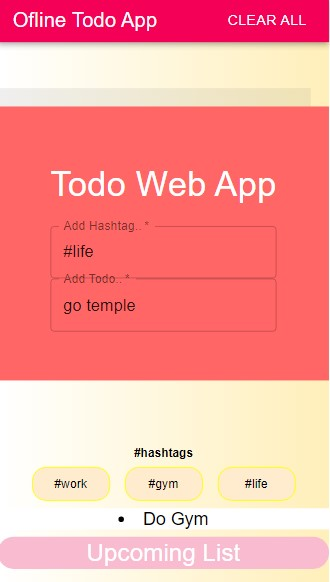
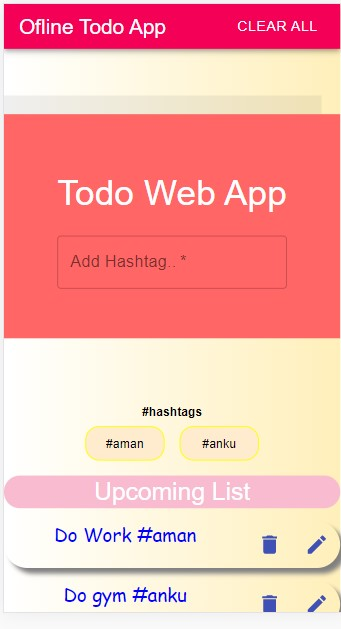
bug fixes

diff --git a/src/Context/AppContext.jsx b/src/Context/AppContext.jsx
@@ -6,10 +6,13 @@ class AppContextProvider extends React.Component {
   constructor(props) {
     super(props);
     var data1 = localStorage.getItem("todolist")
+    var fromHash = localStorage.getItem("hashtag")
+
     this.state = {
       todo: JSON.parse(data1) || [],
       hashtag: [],
-      set: []
+      set: [],
+      hashSet: JSON.parse(fromHash) || []
     };
   }
 
@@ -23,15 +26,29 @@ class AppContextProvider extends React.Component {
 
   // add todo list
   addTodo = (title, hashtag) => {
+
+    var hash = title.split(" ").filter((v) => v.startsWith("#"))
     let item = {
       title,
       id: uuid(),
       status: false,
-      hashtag: hashtag
+      hashtag: hashtag,
+      tHash:hash
+
     };
+    const {hashSet} = this.state
+  
+    console.log(hash)
     this.setState({
-      todo: [...this.state.todo, item]
+      todo: [...this.state.todo, item],
+      hashSet: [...hashSet,...hash]
     });
+    console.log("lop" , this.state.hashSet)
+    var hasgData = [...hashSet, ...hash]
+    var hashTo = localStorage.setItem("hashtag", JSON.stringify(hasgData))
+    // var fromHash = JSON.parse(localStorage.getItem("hashtag"))
+
+
     var data = [...this.state.todo, item]
     localStorage.setItem("todolist", JSON.stringify(data))
 
@@ -63,9 +80,9 @@ class AppContextProvider extends React.Component {
     this.updateTodo(newData);
   };
   render() {
-    const { todo } = this.state;
-    const { addTodo, removeTodo, toggleTask, updateTask} = this;
-    const value = { todo, addTodo, removeTodo, toggleTask, updateTask };
+    const { todo,hashSet } = this.state;
+    const { addTodo, removeTodo, toggleTask, updateTask } = this;
+    const value = { todo, addTodo, removeTodo, toggleTask, updateTask ,hashSet };
     return (
       <AppContext.Provider value={value}>
         {this.props.children}

diff --git a/src/Components/Hashtag.jsx b/src/Components/Hashtag.jsx
@@ -31,25 +31,30 @@ class HashtagView extends Component {
     }
 
     render() {
-        const {todo} = this.context
+        const { todo, hashSet } = this.context
         const { hasht } = this.state
-        console.log(hasht)
+        console.log(todo)
         return (
             <div>
                 <h6>#hashtags</h6>
-                {todo && todo.map((item) => {
+                {hashSet && hashSet.filter(function (item, pos) {
+                    return hashSet.indexOf(item) == pos;
+                }).map((item) => {
                     return (
-                        <button key={item.id} onClick={() => this.showHashTags(item.hashtag)} className="btnhash" >{item.hashtag}</button>
+                        <button key={item} onClick={() => this.showHashTags(item)} className="btnhash" >{item}</button>
                     )
                 })}
                 <div>
-                    {todo && todo.filter((match)=> match.hashtag == hasht).map((show) => {
+                    {todo && todo.map((match) => match.tHash.filter((show2) => {
+                        if (show2 == hasht) {
+
                             return (
-                                <div style={{ backgroundColor: "white" }} key={show.id}>
-                                    <li style={{alignText:"left"}}>{show.title}</li>
+                                <div style={{ backgroundColor: "white" }} key={match.id}>
+                                    <li style={{ alignText: "left" }}>{match.title}</li>
                                 </div>
                             )
-                    })}
+                        }
+                    }))}
                 </div>
             </div>
         )

diff --git a/src/Components/TodoInput.jsx b/src/Components/TodoInput.jsx
@@ -43,12 +43,14 @@ class TodoInput extends React.Component {
                 onChange={this.onHashChange}
                 required={true}
               />
-              <TextField
+
+              
+              {/* <TextField
                 id="outlined-basic" label="Add Todo.." variant="outlined"
                 value={text}
                 onChange={this.onChange}
                 required={true}
-              />
+              /> */}
             </form>
           </label>
         </div>
